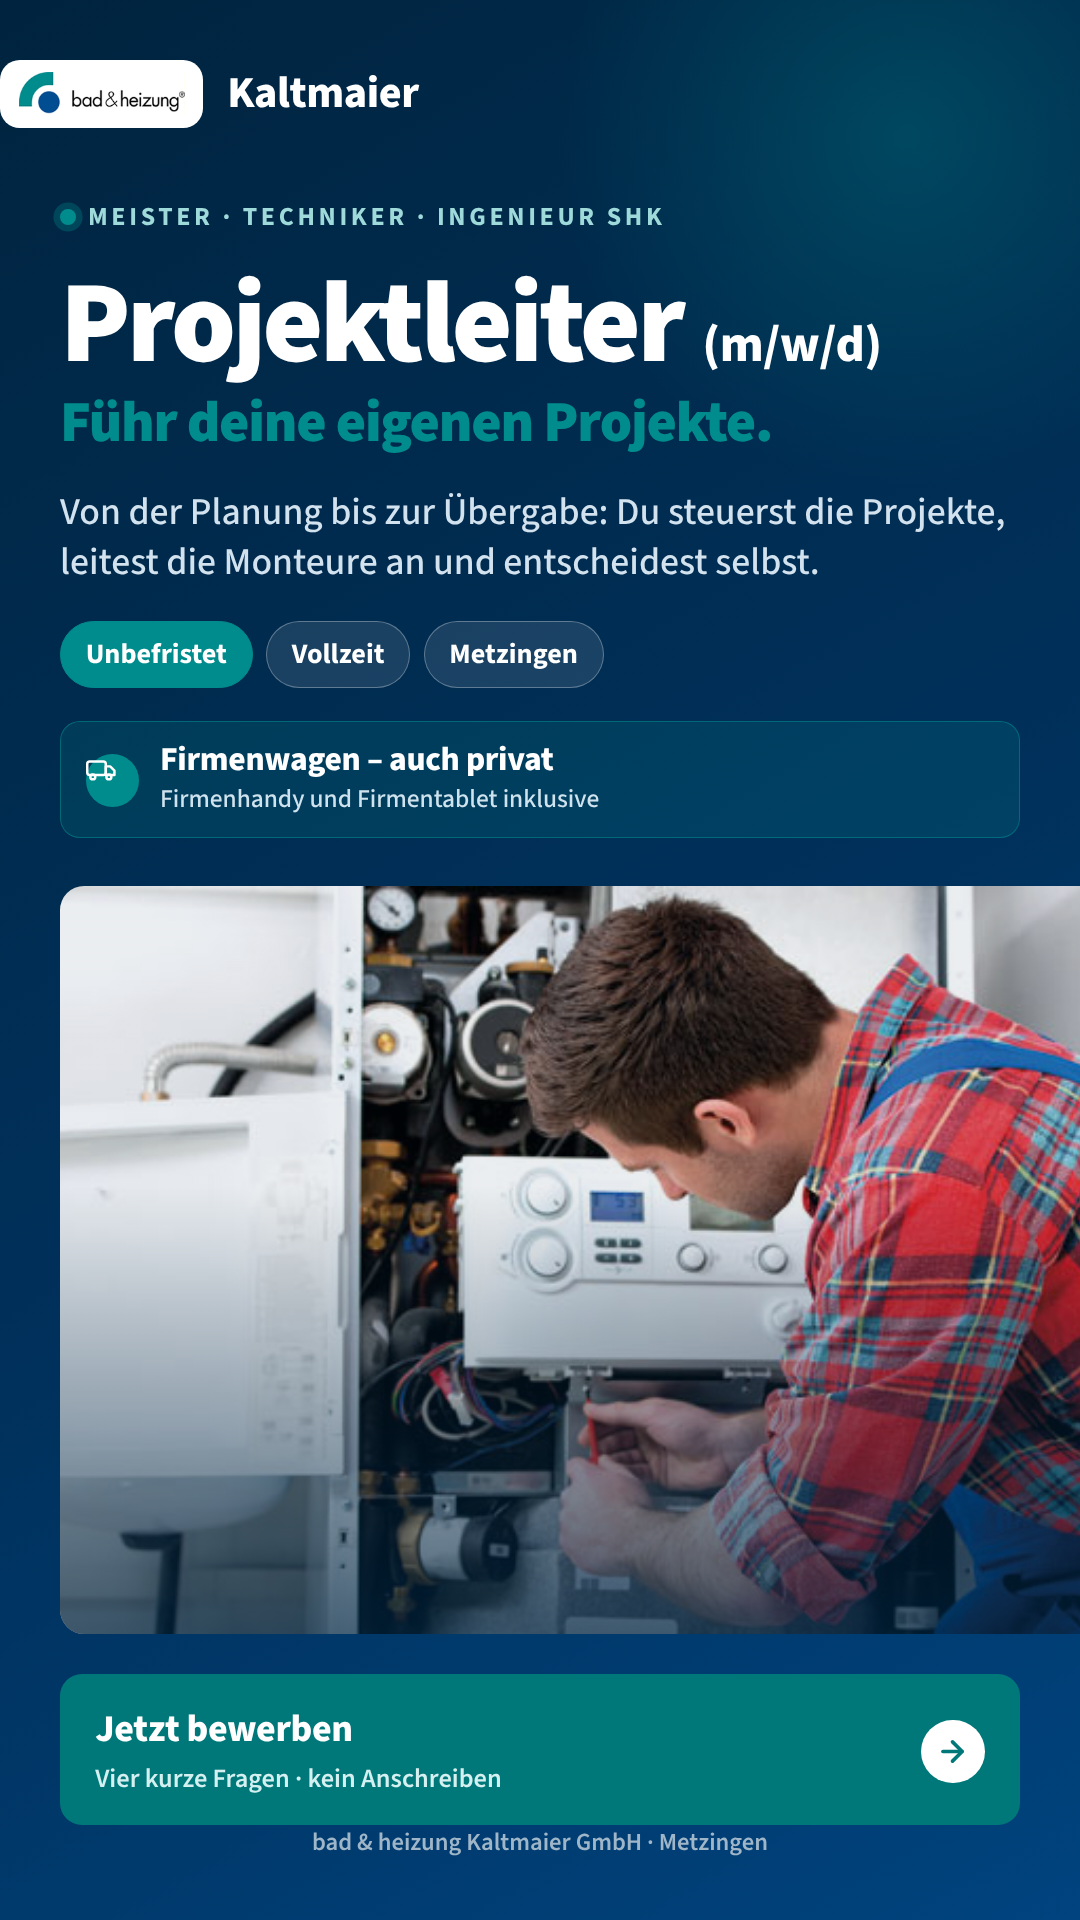
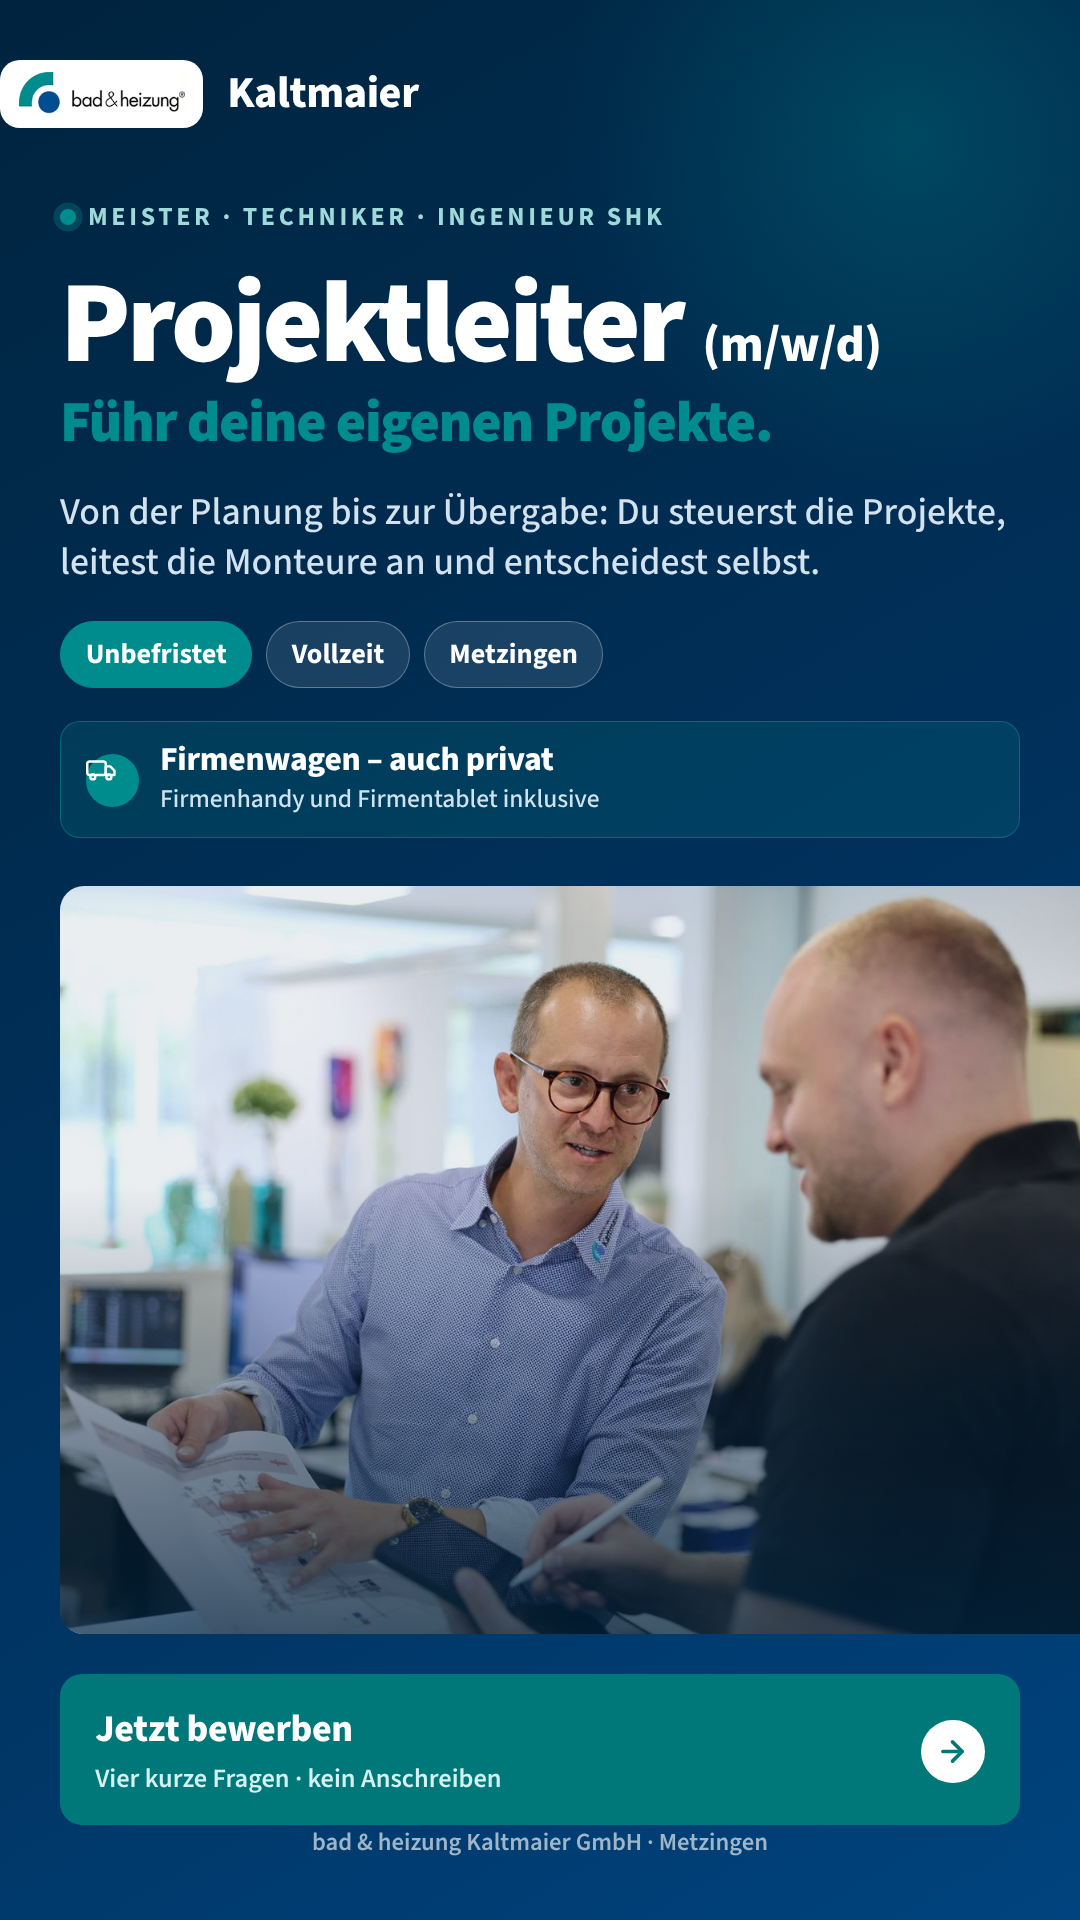
Echte Betriebsfotos auf Seite und Creatives
Die fuenf neuen Fotos sind rund 6000 px breit und 4-7 MB gross. Direkt
eingebunden waere die Seite mobil unbrauchbar gewesen, deshalb liegen
web-optimierte Fassungen in bilder/web/ - zusammen rund 1 MB statt 28 MB.
bilder/optimieren.py erzeugt sie neu.

Karriereseite:
- Hero zeigt jetzt das Team vor dem Betrieb statt des Gebaeude-Panoramas.
  Das Mobil-Band ist auf 340 px gewachsen, weil ein 3:2-Motiv dort mehr
  Hoehe vertraegt als das alte 3,4:1-Panorama.
- Stellenkarte bekommt einen Fotokopf: die Projektbesprechung.
- Neue Sektion "Einblicke" mit vier Motiven: Team, Technik,
  Badausstellung, Betriebsgebaeude. In der Navigation verlinkt.
- Ausser dem Hero laedt jedes Bild verzoegert, jedes img traegt
  width/height gegen Layoutspruenge.

Creatives:
- benefit  -> Team vor dem Betrieb
- beruf    -> Projektbesprechung
- wechsel  -> Team, Zusammenhalt
- Facebook-Titelbild -> Team
- Das Mustermotiv Vorschau_Muster_Kundendienstmonteur.jpg wird nirgends
  mehr verwendet; damit entfaellt die offene Lizenzfrage. Die Datei
  bleibt im Repo liegen.

Formular erneut geprueft: 7 Geraete, 0 Scrollspruenge, jeder Schritt
vollstaendig sichtbar, K.-o.-Abbruch sendet nichts.

Claude-Session: https://claude.ai/code/session_012hSN9dFuKFmewtCAb4jdJZ

Changed region(s): [[0.0306, 0.4375, 1.0, 0.875]]

diff --git a/index.html b/index.html
@@ -105,7 +105,7 @@ img{max-width:100%;display:block}
 /* ---------- HERO ---------- */
 .hero{position:relative;overflow:hidden;background:var(--brand-900);padding:0}
 .hero__media{position:absolute;inset:0;background-color:#002440;background-image:var(--grad);background-size:cover;background-position:center}
-.hero__media.has-photo{background-position:62% center;
+.hero__media.has-photo{background-position:center 38%;
   background-image:linear-gradient(100deg,rgba(0,36,64,.94) 0%,rgba(0,36,64,.86) 50%,rgba(0,49,92,.28) 86%),var(--hero-photo)}
 .hero__media::after{content:"";position:absolute;inset:0;background:linear-gradient(90deg,rgba(0,36,64,.45),transparent 60%)}
 /* Eigener Stacking-Kontext: sonst ueberdeckt .hero__media den Abdunkler
@@ -145,7 +145,7 @@ img{max-width:100%;display:block}
      erste, was man sieht, ohne zu scrollen.
      ------------------------------------------------------------------- */
   .hero__media.has-photo{
-    inset:0 0 auto 0;height:320px;background-position:44% center;
+    inset:0 0 auto 0;height:340px;background-position:center 34%;
     /* Der letzte Stopp trifft exakt die Farbe, die direkt unter dem Band
        liegt (rgba(0,36,64,.84) ueber --brand-900 = #002645). Dadurch gibt
        es keine sichtbare Kante, das Foto laeuft weich in den Text aus. */
@@ -153,8 +153,8 @@ img{max-width:100%;display:block}
       rgba(0,36,64,.10) 50%,rgba(0,38,69,.42) 72%,rgba(0,38,69,.86) 90%,
       rgba(0,38,69,1) 100%),var(--hero-photo)}
   .hero__media.has-photo::after{background:none}
-  .hero__media.has-photo ~ .shell .hero__panel{padding-top:338px}
-  .hero__media.has-photo ~ .shell .hero__panel::before{top:320px}
+  .hero__media.has-photo ~ .shell .hero__panel{padding-top:358px}
+  .hero__media.has-photo ~ .shell .hero__panel::before{top:340px}
 }
 
 /* ---------- trust band ---------- */
@@ -179,6 +179,11 @@ section[id]{scroll-margin-top:80px}
 .job-grid{display:grid;gap:22px;margin-top:44px;grid-template-columns:minmax(0,740px);justify-content:center}
 .job{position:relative;display:flex;flex-direction:column;width:100%;background:#fff;border:1.5px solid var(--line);border-radius:var(--radius);padding:34px 32px;transition:transform .2s ease,border-color .2s ease,box-shadow .2s ease}
 .job:hover{transform:translateY(-5px);border-color:var(--brand);box-shadow:var(--shadow)}
+/* Foto im Kopf der Stellenkarte - zeigt die Projektarbeit selbst. */
+.job__photo{margin:-34px -32px 22px;aspect-ratio:16/7;overflow:hidden;
+  border-radius:var(--radius) var(--radius) 0 0;background:#0a2b47}
+.job__photo img{width:100%;height:100%;object-fit:cover;object-position:center 42%}
+@media(max-width:760px){.job__photo{margin:-26px -20px 18px;aspect-ratio:3/2}}
 .job__icon{width:52px;height:52px;border-radius:13px;display:grid;place-items:center;background:var(--brand-soft);border:1px solid var(--line-strong);margin-bottom:18px}
 .job__icon svg{width:26px;height:26px;stroke:var(--brand-700)}
 .job h3{font-size:24px;margin-bottom:4px}
@@ -206,6 +211,23 @@ section[id]{scroll-margin-top:80px}
 .benefit__ic svg{width:23px;height:23px;stroke:var(--brand-700)}
 .benefit b{font-family:var(--f-display);font-weight:800;font-size:16.5px;display:block;margin-bottom:6px;color:var(--brand-900)}
 .benefit p{font-size:14px;color:var(--ink-soft);font-weight:450}
+
+/* ---------- einblicke ---------- */
+.gallery{display:grid;grid-template-columns:repeat(3,1fr);gap:18px;margin-top:44px}
+.gallery figure{position:relative;margin:0;overflow:hidden;border-radius:var(--radius);
+  background:#0a2b47;border:1.5px solid var(--line)}
+.gallery figure:first-child{grid-column:1/-1;aspect-ratio:21/9}
+.gallery figure:not(:first-child){aspect-ratio:4/3}
+.gallery img{width:100%;height:100%;object-fit:cover;display:block}
+.gallery figcaption{position:absolute;left:0;right:0;bottom:0;padding:34px 18px 14px;
+  font-size:14px;font-weight:700;color:#fff;
+  background:linear-gradient(180deg,rgba(0,36,64,0) 0%,rgba(0,36,64,.86) 72%)}
+@media(max-width:820px){
+  .gallery{grid-template-columns:1fr 1fr;gap:12px;margin-top:30px}
+  .gallery figure:first-child{aspect-ratio:16/9}
+  .gallery figcaption{font-size:12.5px;padding:28px 13px 11px}
+}
+@media(max-width:520px){.gallery{grid-template-columns:1fr}}
 
 /* ---------- process ---------- */
 .process{background:var(--bg-soft);border-top:1px solid var(--line);border-bottom:1px solid var(--line)}
@@ -385,6 +407,7 @@ footer{padding:52px 0 36px;background:var(--brand-900);color:#ccd7e2}
     <nav class="topbar__nav" aria-label="Hauptnavigation">
       <a class="navlink" href="#stellen">Offene Stelle</a>
       <a class="navlink" href="#benefits">Warum Kaltmaier</a>
+      <a class="navlink" href="#einblicke">Einblicke</a>
       <a class="navlink" href="#ablauf">Ablauf</a>
       <a class="btn btn--primary btn--sm" href="#formular"><span class="cta-long">Jetzt bewerben</span><span class="cta-short">Bewerben</span></a>
     </nav>
@@ -463,6 +486,37 @@ footer{padding:52px 0 36px;background:var(--brand-900);color:#ccd7e2}
       <div class="benefit reveal"><div class="benefit__ic"><svg viewBox="0 0 24 24" fill="none" stroke-width="1.8" stroke-linecap="round" stroke-linejoin="round"><path d="M13 2 3 14h7l-1 8 10-12h-7l1-8z"/></svg></div><b>Abwechslung mit Perspektive</b><p>Kein Projekt gleicht dem anderen – vom kompletten Bad bis zur modernen Heizungsanlage. Ein Arbeitsplatz mit Zukunft.</p></div>
       <div class="benefit reveal"><div class="benefit__ic"><svg viewBox="0 0 24 24" fill="none" stroke-width="1.8" stroke-linecap="round" stroke-linejoin="round"><path d="M22 10 12 5 2 10l10 5 10-5z"/><path d="M6 12v5c0 1.7 2.7 3 6 3s6-1.3 6-3v-5"/></svg></div><b>Umfassende Weiterbildung</b><p>Wir fördern deine Entwicklung mit umfassenden Weiterbildungsangeboten – eine Weiterbildung zum Energieberater ist ausdrücklich willkommen.</p></div>
       <div class="benefit reveal"><div class="benefit__ic"><svg viewBox="0 0 24 24" fill="none" stroke-width="1.8" stroke-linecap="round" stroke-linejoin="round"><path d="M16 21v-2a4 4 0 0 0-4-4H6a4 4 0 0 0-4 4v2"/><circle cx="9" cy="7" r="4"/><path d="M22 21v-2a4 4 0 0 0-3-3.87"/><path d="M16 3.13a4 4 0 0 1 0 7.75"/></svg></div><b>Junges Team, moderne Räume</b><p>Ein junges, motiviertes Team und moderne Betriebsräume – kurze Wege, klare Absprachen, gute Stimmung.</p></div>
+    </div>
+  </div>
+</section>
+
+<!-- ============ EINBLICKE ============ -->
+<section id="einblicke">
+  <div class="shell">
+    <span class="kicker">Einblicke</span>
+    <h2 class="sec-title">So sieht es bei uns aus.</h2>
+    <p class="sec-lead">Kein Stockfoto-Betrieb: Das sind unser Team, unsere Technik und unsere Räume in Metzingen.</p>
+    <div class="gallery">
+      <figure class="reveal">
+        <img src="bilder/web/team-zusammenhalt.jpg" loading="lazy" width="1400" height="933"
+             alt="Das Team von Bad &amp; Heizung Kaltmaier" />
+        <figcaption>Ein Team, das zusammenhält</figcaption>
+      </figure>
+      <figure class="reveal">
+        <img src="bilder/web/technik-anlage.jpg" loading="lazy" width="1100" height="733"
+             alt="Kollege mit Tablet an einer modernen Heizungsanlage" />
+        <figcaption>Moderne Heiztechnik</figcaption>
+      </figure>
+      <figure class="reveal">
+        <img src="bilder/web/beratung-bad.jpg" loading="lazy" width="1100" height="733"
+             alt="Beratung in der Badausstellung" />
+        <figcaption>Eigene Badausstellung</figcaption>
+      </figure>
+      <figure class="reveal">
+        <img src="bilder/web/betrieb-gebaeude.jpg" loading="lazy" width="1600" height="475"
+             alt="Betriebsgebäude von Bad &amp; Heizung Kaltmaier in Metzingen" />
+        <figcaption>Moderne Betriebsräume</figcaption>
+      </figure>
     </div>
   </div>
 </section>
@@ -759,6 +813,8 @@ footer{padding:52px 0 36px;background:var(--brand-900);color:#ccd7e2}
      --------------------------------------------------------------------- */
   document.getElementById("jobGrid").innerHTML =
     '<article class="job reveal" style="text-align:left">'+
+      '<div class="job__photo"><img src="bilder/web/stelle-planung.jpg" loading="lazy" '+
+        'alt="Projektbesprechung bei Bad &amp; Heizung Kaltmaier" width="1400" height="933"></div>'+
       '<div class="job__icon"><svg viewBox="0 0 24 24" fill="none" stroke-width="1.8" stroke-linecap="round" stroke-linejoin="round">'+JOB.icon+'</svg></div>'+
       '<h3>'+esc(JOB.title)+'</h3>'+
       '<p class="job__teaser">'+esc(JOB.teaser)+'</p>'+
@@ -856,13 +912,14 @@ footer{padding:52px 0 36px;background:var(--brand-900);color:#ccd7e2}
 
   /* ---------------------------------------------------------------------
      HERO-BILD
-     Betriebsgebaeude in Metzingen. Liegt eine eigene bilder/hero.jpg vor,
-     hat sie Vorrang.
+     Das Team vor dem Betrieb in Metzingen. Liegt eine eigene
+     bilder/hero.jpg vor, hat sie Vorrang.
      --------------------------------------------------------------------- */
   (function(){
     var el=document.getElementById("heroMedia");
     var cands=["bilder/hero.jpg","bilder/hero.jpeg","bilder/hero.png",
-               "bilder/csm_Kaltmaier_Metzingen-gebaeude_68f07057f5.jpg"], i=0;
+               "bilder/web/hero-team.jpg",
+               "bilder/web/betrieb-gebaeude.jpg"], i=0;
     (function tryNext(){
       if (i>=cands.length) return;
       var url=cands[i++], probe=new Image();

diff --git a/bilder/optimieren.py b/bilder/optimieren.py
@@ -1,0 +1,38 @@
+#!/usr/bin/env python3
+"""Erzeugt die web-optimierten Fassungen in bilder/web/.
+
+Aufruf aus dem Projektwurzelverzeichnis:  python3 bilder/optimieren.py
+"""
+from PIL import Image
+import os, sys
+
+HIER = os.path.dirname(os.path.abspath(__file__))
+WURZEL = os.path.dirname(HIER)
+
+# Quelle -> (Ziel, Zielbreite in px)
+JOBS = [
+    ('035A7907.JPG',                                   'hero-team.jpg',          2000),
+    ('035A5037.JPG',                                   'stelle-planung.jpg',     1400),
+    ('035A5999.JPG',                                   'team-zusammenhalt.jpg',  1400),
+    ('035A5223.JPG',                                   'technik-anlage.jpg',     1100),
+    ('035A3994.JPG',                                   'beratung-bad.jpg',       1100),
+    ('csm_Kaltmaier_Metzingen-gebaeude_68f07057f5.jpg','betrieb-gebaeude.jpg',   1600),
+]
+
+ziel_ordner = os.path.join(HIER, 'web')
+os.makedirs(ziel_ordner, exist_ok=True)
+gesamt = 0
+for quelle, ziel, breite in JOBS:
+    qp = os.path.join(HIER, quelle)
+    if not os.path.exists(qp):
+        print(f'  uebersprungen (fehlt): {quelle}')
+        continue
+    im = Image.open(qp).convert('RGB')
+    hoehe = round(im.size[1] * breite / im.size[0])
+    im = im.resize((breite, hoehe), Image.LANCZOS)
+    zp = os.path.join(ziel_ordner, ziel)
+    im.save(zp, 'JPEG', quality=78, optimize=True, progressive=True)
+    kb = os.path.getsize(zp) // 1024
+    gesamt += kb
+    print(f'  {ziel:26} {breite:4} x {hoehe:<4} {kb:4} KB')
+print(f'\nSumme: {gesamt} KB')

diff --git a/README.md b/README.md
@@ -21,6 +21,7 @@ Die Seite ist eine einzige, eigenständige Datei: **`index.html`**
 | 6 | Benefits | 6 Karten |
 | 7 | Ablauf | 3 Schritte |
 | 8 | Mid-CTA | Zwischen-Handlungsaufruf |
+| 8b | Einblicke | Bildstrecke: Team, Technik, Badausstellung, Betrieb |
 | 9 | Bewerbung | Mehrstufiges Formular (6 Schritte) |
 | 10 | FAQ | 6 Fragen |
 | 11 | Footer | Kontakt, Rechtliches |
@@ -147,29 +148,33 @@ Firmendaten (Adresse, Telefon, E-Mail, Rechts-Links) stehen gebündelt im
 
 ## 6 · Bildmaterial
 
-Im Repo liegen:
+Im Repo liegen sechs echte Betriebsfotos plus das Original-Logo. Die
+Fotos sind rund 6000 px breit und 4–7 MB gross; eingebunden werden
+web-optimierte Fassungen aus `bilder/web/` (zusammen rund 1 MB).
 
-| Datei | Verwendung |
-|-------|------------|
-| `bilder/buh_logo.png.webp` | Original-Logo, in Topbar, Hero und Footer eingebunden |
-| `bilder/csm_Kaltmaier_Metzingen-gebaeude_68f07057f5.jpg` | Hero-Hintergrund (Betriebsgebaeude Metzingen) |
-| `bilder/Vorschau_Muster_Kundendienstmonteur.jpg` | Reserve, 530 x 354 px |
+| Web-Fassung | Breite | Verwendung |
+|-------------|--------|------------|
+| `hero-team.jpg` | 2000 px | Hero der Karriereseite, Creative `benefit`, Facebook-Titelbild |
+| `stelle-planung.jpg` | 1400 px | Kopf der Stellenkarte, Creative `beruf` |
+| `team-zusammenhalt.jpg` | 1400 px | Einblicke (gross), Creative `wechsel` |
+| `technik-anlage.jpg` | 1100 px | Einblicke |
+| `beratung-bad.jpg` | 1100 px | Einblicke |
+| `betrieb-gebaeude.jpg` | 1600 px | Einblicke |
+
+Neu erzeugen nach einem Austausch: `python3 bilder/optimieren.py`
+
+Ausser dem Hero laedt jedes Bild verzoegert (`loading="lazy"`), und jedes
+`img` traegt `width`/`height`, damit beim Nachladen nichts springt.
 
 **Das Logo wird unveraendert verwendet** – nicht nachgebaut, nicht neu
 gezeichnet, nicht eingefaerbt, Seitenverhaeltnis unberuehrt. Da der
 Schriftzug schwarz ist, sitzt es auf einer weissen Flaeche; daneben steht
 „Kaltmaier" als Text, genau wie auf Fahrzeugen und Gebaeude.
 
-**Hero-Darstellung:** Am Desktop liegt das Foto als Vollflaeche hinter dem
-Text. Mobil nicht – das Gebaeudefoto ist ein Querformat (3,4:1), davon waere
-auf einem Hochkant-Display nur ein rund 20 % breiter Streifen zu sehen.
-Mobil bekommt es deshalb ein eigenes Band von 320 px ganz oben im Hero und
-laeuft nach unten weich in den Textbereich aus. Die Abdunklung steckt
-komplett im Stylesheet; das JS setzt nur noch `--hero-photo`, weil ein
-inline gesetztes `background-image` jede Media-Query ueberschreiben wuerde.
+`Vorschau_Muster_Kundendienstmonteur.jpg` war ein Mustermotiv mit
+530 x 354 px und wird seit den echten Fotos nirgends mehr verwendet.
 
 Optionale Ueberschreibungen (greifen automatisch, ohne Code-Aenderung):
 
-* `bilder/logo-kaltmaier-weiss.png` – fertiges Komplettlogo in Weiss,
-  ersetzt dann Logo-Badge + Schriftzug
-* `bilder/hero.jpg` – eigenes Hero-Bild, hat Vorrang vor dem Gebaeudefoto
+* `bilder/logo-kaltmaier-weiss.png` – fertiges Komplettlogo in Weiss
+* `bilder/hero.jpg` – eigenes Hero-Bild, hat Vorrang

diff --git a/creatives/README.md b/creatives/README.md
@@ -54,10 +54,15 @@ und die drei Varianten bleiben trotzdem unterscheidbar.
   der Abschluss in jedem Format und bei jeder Headline-Laenge gleich tief,
   statt dass unten Leerraum entsteht.
 
-## Hinweis zum Monteur-Foto
+## Bildzuordnung
 
-`Vorschau_Muster_Kundendienstmonteur.jpg` ist mit 530 x 354 px klein und
-traegt „Vorschau/Muster" im Dateinamen. Es wird in den beiden
-`beruf-`Creatives verwendet und dort hochskaliert. Vor dem Ausspielen
-bitte Lizenz und eine hoeher aufgeloeste Fassung klaeren – idealerweise
-ersetzt durch ein echtes Foto aus dem Betrieb.
+| Konzept | Foto |
+|---------|------|
+| `benefit` | `web/hero-team.jpg` – Team vor dem Betrieb, Fahrzeuge im Hintergrund |
+| `beruf` | `web/stelle-planung.jpg` – Projektbesprechung mit Plan und Tablet |
+| `wechsel` | `web/team-zusammenhalt.jpg` – Team, Zusammenhalt |
+| Facebook-Titelbild | `web/hero-team.jpg` |
+
+Alles echte Betriebsfotos. Das frueher genutzte Mustermotiv
+(`Vorschau_Muster_Kundendienstmonteur.jpg`, 530 x 354 px) wird nicht mehr
+verwendet – damit entfaellt auch die offene Lizenzfrage.
